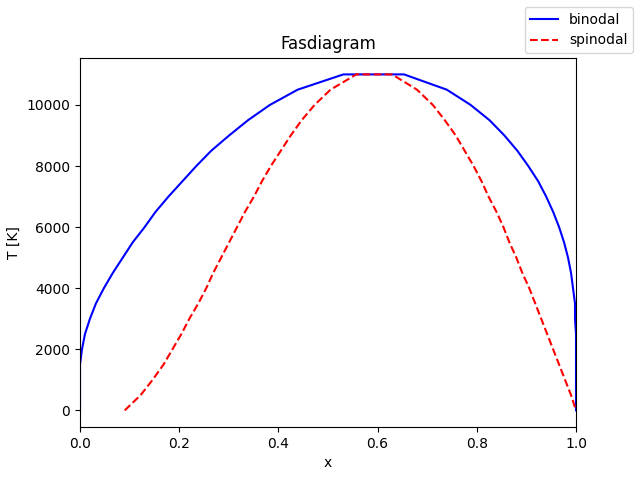
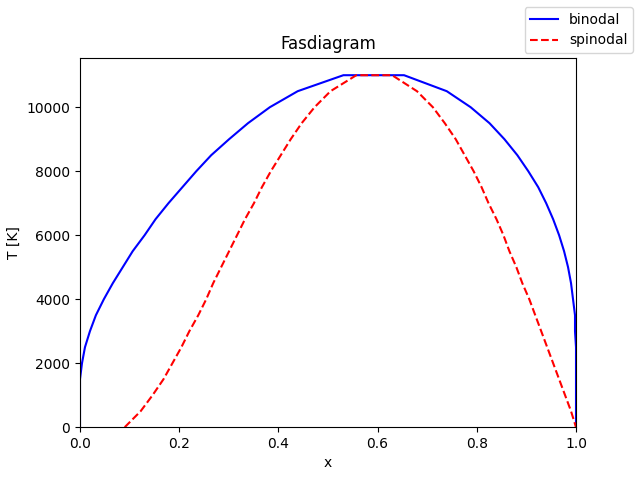
fix i plot_phase_diagram

diff --git a/src/berakningsfysik/subsystem_python/plot_phase_diagram.py b/src/berakningsfysik/subsystem_python/plot_phase_diagram.py
@@ -8,8 +8,6 @@ from build_dataframe import temps
 from find_phase_curves import columns
 
 
-
-
 def main():
 
     print( "Plottar fasdiagram.")
@@ -22,6 +20,7 @@ def main():
 
     
     plt.xlim(0, 1)
+    plt.ylim(0,)
     plt.xlabel("x")
     plt.ylabel("T [K]")
     plt.title("Fasdiagram")
@@ -32,6 +31,7 @@ def main():
 
 def plot_curve(df, curve_type, column1, column2):
     """Sätter ihop kolumnerna column1 och column2 
+    (t.ex xa och xb)
     och plottar mot temperaturen.
     df är dataframe från curves.csv
     curve_type är "spinodal" eller "binodal" """